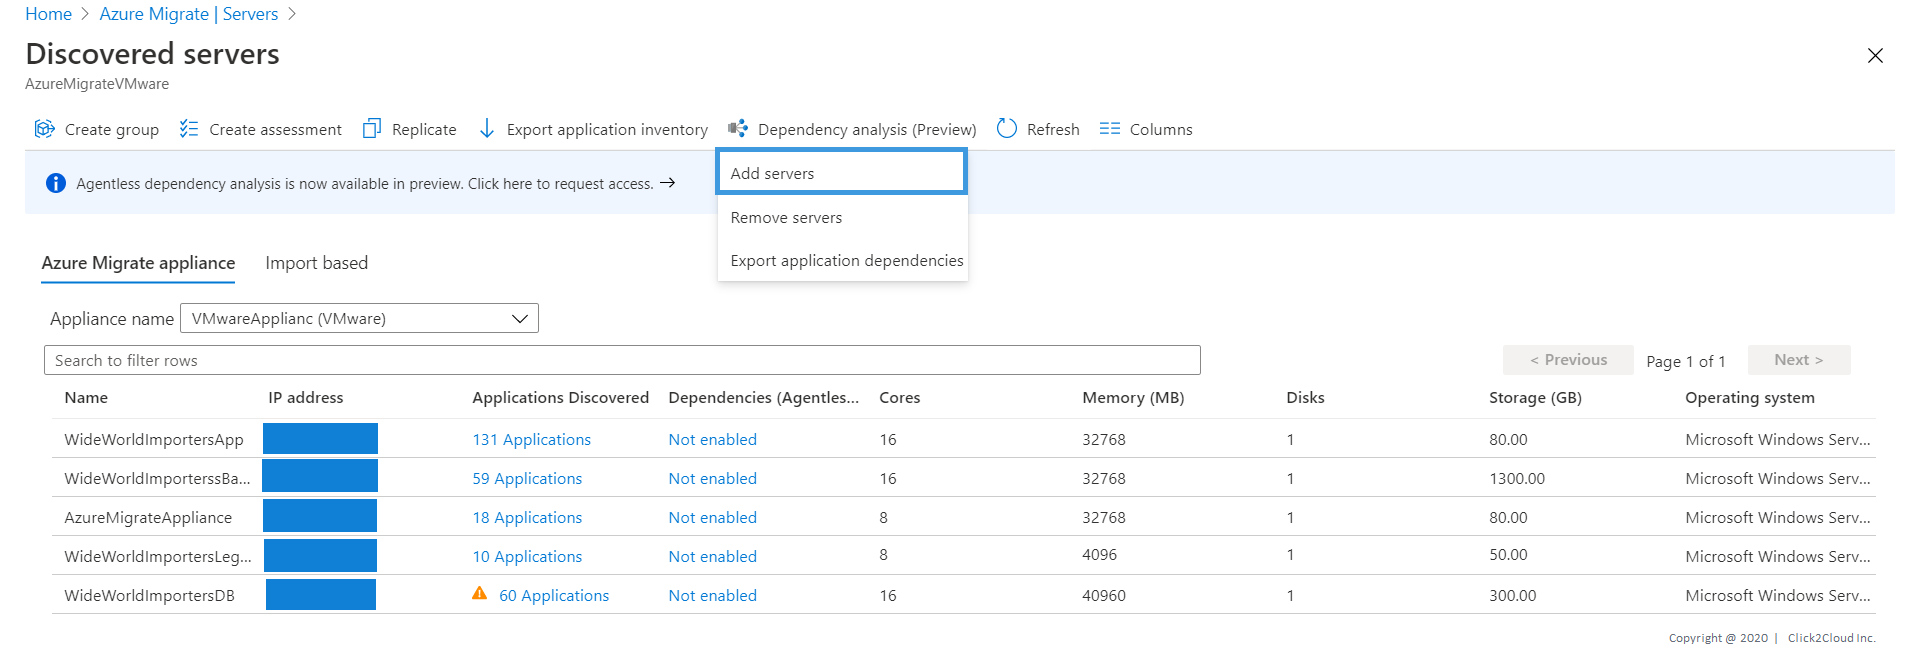
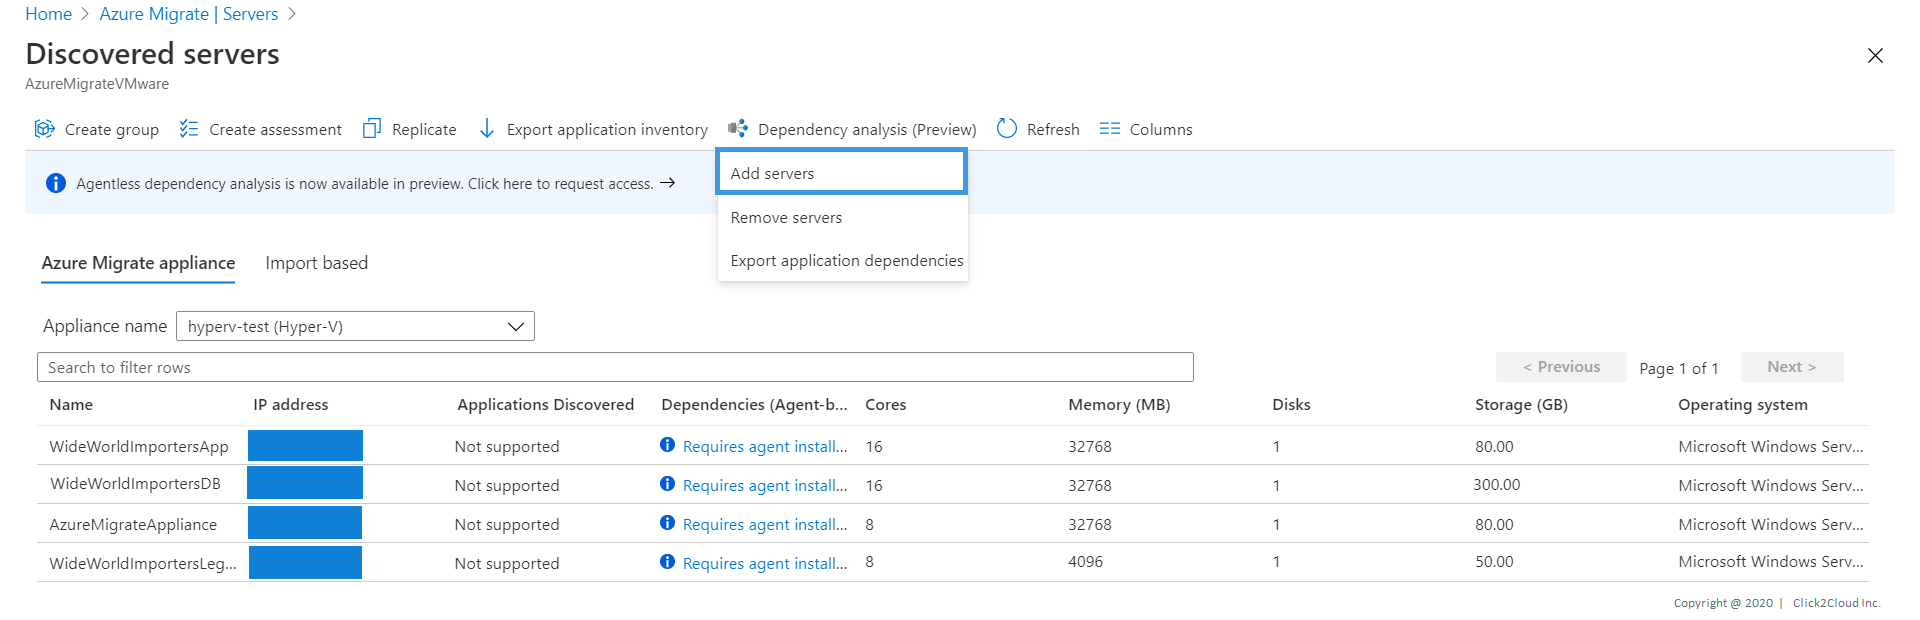
Updated document for Hyper-V

diff --git a/migrate/wwi-ecomm-db-legacy.md b/migrate/wwi-ecomm-db-legacy.md
@@ -7,10 +7,47 @@ The database that will be migrated is hosted on a Windows Server 2008 R2.
 
 Technologies used:
  - Microsoft SQL Server 2008 R2
+ 
+## Download and install the provider
+
+For migrating Hyper-V VMs, Azure Migrate:Server Migration installs software providers (Microsoft Azure Site Recovery provider and Microsoft Azure Recovery Service agent) on Hyper-V Hosts or cluster nodes. Note that the Azure Migrate appliance isn't used for Hyper-V migration.  
+
+1. In the Azure Migrate project > **Servers**, in A**zure Migrate: Server Migration**, click **Discover**.
+
+2. In **Discover machines** > **Are your machines virtualized?**, select **Yes, with Hyper-V**.
+
+3. In **Target region**, select the Azure region to which you want to migrate the machines.
+
+4. Select **Confirm that the target region for migration is region-name**.
+
+5. Click **Create resources**. This creates an Azure Site Recovery vault in the background.
+  - If you've already set up migration with Azure Migrate Server Migration, this option won't appear since resources were set up previously.
+  - You can't change the target region for this project after clicking this button.
+  - All subsequent migrations are to this region.
+  
+<p><kbd>
+  <img src="../images/WWI-eCommerce/server-migration1-hyperv.PNG">
+</kbd></p>
+
+6. In **Prepare Hyper-V host servers**, download the Hyper-V Replication provider, and the registration key file.
+  - The registration key is needed to register the Hyper-V host with Azure Migrate Server Migration.
+  - The key is valid for five days after you generate it.
+  
+<p><kbd>
+  <img src="../images/WWI-eCommerce/server-migration2-hyperv.PNG">
+</kbd></p>
+
+7. Copy the provider setup file and registration key file to each Hyper-V host (or cluster node) running VMs you want to replicate.
+
+8. Run the provider setup file on each host, as described in the next procedure.
+
+9. After installing the provider on hosts, in **Discover machines**, click **Finalize registration**. 
+
+It can take up to 15 minutes after finalizing registration until discovered VMs appear in Azure Migrate Server Migration. As VMs are discovered, the **Discovered servers** count rises.
 
 ## Replicate VMs
 
-After setting up the appliance and completing discovery, you can begin replication of VMware VMs to Azure.
+With discovery completed, you can begin replication of Hyper-V VMs to Azure.
 * You can run up to 300 replications simultaneously.
 * In the portal, you can select up to 10 VMs at once for migration. To migrate more machines, add them to groups in batches of 10.
 
@@ -21,26 +58,25 @@ Enable replication as follows:
   <img src="../images/WWI-eCommerce/server-migration1.PNG">
 </kbd></p>
 
-2. In **Replicate**, > **Source settings** > **Are your machines virtualized?**, select **Yes, with VMware vSphere**.
-3. In **On-premises appliance**, select the name of the Azure Migrate appliance that you set up > **OK**.
+2. In **Replicate**, > **Source settings** > **Are your machines virtualized?**, select **Yes, with Hyper-V**.
 
 <p><kbd>
-  <img src="../images/WWI-eCommerce/server-migration3.PNG">
+  <img src="../images/WWI-eCommerce/server-migration4-hyperv.PNG">
 </kbd></p>
 
-4. In **Virtual machines**, select the machines you want to replicate. To apply VM sizing and disk type from an assessment if you have run one, in **Import migration settings from an Azure Migrate assessment?**, select **Yes**, and select the VM group and assessment name. If you aren't using assessment settings, select **No**.
+3. In **Virtual machines**, select the machines you want to replicate. To apply VM sizing and disk type from an assessment if you have run one, in **Import migration settings from an Azure Migrate assessment?**, select **Yes**, and select the VM group and assessment name. If you aren't using assessment settings, select **No**.
 
-5. In **Virtual machines**, select VMs you want to migrate. Then click **Next: Target settings**.
+4. In **Virtual machines**, select VMs you want to migrate. Then click **Next: Target settings**.
 
 <p><kbd>
   <img src="../images/WWI-eCommerce/server-migration4.PNG">
 </kbd></p>
 
-6. In **Target settings**, select the subscription and target region. Specify the resource group in which the Azure VMs reside after migration.
+5. In **Target settings**, select the subscription and target region. Specify the resource group in which the Azure VMs reside after migration.
 
-7. In **Virtual Network**, select the Azure VNet/subnet which the Azure VMs join after migration.
+6. In **Virtual Network**, select the Azure VNet/subnet which the Azure VMs join after migration.
 
-8. In **Azure Hybrid Benefit**:
+7. In **Azure Hybrid Benefit**:
 - Select **No** if you don't want to apply Azure Hybrid Benefit. Then click **Next**.
 - Select **Yes** if you have Windows Server machines that are covered with active Software Assurance or Windows Server subscriptions, and you want to apply the benefit to the machines you are migrating. Then click **Next**.
 
@@ -48,7 +84,7 @@ Enable replication as follows:
   <img src="../images/WWI-eCommerce/server-migration5.PNG">
 </kbd></p>
 
-9. In **Compute**, review the VM name, size, OS disk type, and availability set. VMs must conform with Azure requirements.
+8. In **Compute**, review the VM name, size, OS disk type, and availability set. VMs must conform with Azure requirements.
 - **VM size**: If you're using assessment recommendations, the VM size dropdown shows the recommended size. Otherwise Azure Migrate picks a size based on the closest match in the Azure subscription. Alternatively, pick a manual size in Azure VM size.
 - **OS disk**: Specify the OS (boot) disk for the VM. The OS disk is the disk that has the operating system bootloader and installer.
 - **Availability set**: If the VM will reside in an Azure availability set after migration, specify the set. The set must be in the target resource group you specify for the migration.
@@ -57,13 +93,13 @@ Enable replication as follows:
   <img src="../images/WWI-eCommerce/server-migration6.PNG">
 </kbd></p>
 
-10. In **Disks**, specify whether the VM disks should be replicated to Azure, and select the disk type (standard SSD/HDD or premium-managed disks) in Azure. Then click **Next**.
+9. In **Disks**, specify whether the VM disks should be replicated to Azure, and select the disk type (standard SSD/HDD or premium-managed disks) in Azure. Then click **Next**.
 
 <p><kbd>
   <img src="../images/WWI-eCommerce/server-migration7.PNG">
 </kbd></p>
 
-11. In **Review and start replication**, review the settings, and click **Replicate** to start the initial replication for the servers.
+10. In **Review and start replication**, review the settings, and click **Replicate** to start the initial replication for the servers.
 
 <p><kbd>
   <img src="../images/WWI-eCommerce/server-migration8.PNG">

diff --git a/assess/wwi-ecomm-db.md b/assess/wwi-ecomm-db.md
@@ -8,12 +8,7 @@ The database that will be migrated is hosted on a Windows server 2016.
 Technologies used:
  - Microsoft SQL Server 2017
 
-## Steps for Application Discovery
-
-* App discovery using Azure Migrate: Server Assessment is agentless. 
-* Nothing is installed on machines and VMs. 
-* Server Assessment uses the Azure Migrate appliance to perform discovery along with machine guest credentials. 
-* The appliance remotely accesses the VMware machines using VMware APIs.
+## Steps to view discovered Virtual Machines
 
 1. Log in to the azure console, Search for **Azure Migrate** and click on **Azure Migrate**.
 
@@ -37,15 +32,6 @@ Here you can see all the discovered servers from **Hyper-V** which Azure applian
 
 <p><kbd>
   <img src="../images/WWI-eCommerce/server-assessment-2.PNG">
-</kbd></p>
-
-4. In **Applications discovered**, click the displayed count.
-* In **Application inventory**, you can review the discovered apps, roles, and features.
-
-* Application Discovery for WWI-eCommerce Database VM.
-
-<p><kbd>
-  <img src="../images/WWI-eCommerce/application-discovery-database.PNG">
 </kbd></p>
 
 ## Steps for Application Dependency and Grouping

diff --git a/assess/wwi-ecomm-db-legacy.md b/assess/wwi-ecomm-db-legacy.md
@@ -8,9 +8,7 @@ The database that will be migrated contains campaign related data and is hosted 
 Technologies used:
  - Microsoft SQL Server 2008 R2
 
-## Steps for Application Discovery
-
-App discovery using Azure Migrate: Server Assessment is agentless. Nothing is installed on machines and VMs. Server Assessment uses the Azure Migrate appliance to perform discovery along with machine guest credentials. The appliance remotely accesses the VMware machines using VMware APIs.
+## Steps to view discovered Virtual Machines
 
 1. Log in to the azure console, Search for **Azure Migrate** and click on **Azure Migrate**.
 
@@ -34,15 +32,6 @@ Here you can see all the discovered servers from **Hyper-V** which Azure applian
 
 <p><kbd>
   <img src="../images/WWI-eCommerce/server-assessment-2.PNG">
-</kbd></p>
-
-4. In **Applications discovered**, click the displayed count.
-* In **Application inventory**, you can review the discovered apps, roles, and features.
-
-* Application Discovery for Wide World Importers legacy Database VM.
-
-<p><kbd>
-  <img src="../images/WWI-eCommerce/application-discovery-legacy-db.PNG">
 </kbd></p>
 
 

diff --git a/assess/wwi-ecomm-app.md b/assess/wwi-ecomm-app.md
@@ -13,12 +13,7 @@ Technologies used:
  - .NET Core v2.2.104
 
 
-## Steps for Application Discovery
-
-App discovery using Azure Migrate: Server Assessment is agentless. 
-* Nothing is installed on machines and VMs. 
-* Server Assessment uses the Azure Migrate appliance to perform discovery along with machine guest credentials. 
-* The appliance remotely accesses the VMware machines using VMware APIs.
+## Steps to view discovered Virtual Machines
 
 1. Log in to the azure console, Search for **Azure Migrate** and click on **Azure Migrate**.
 
@@ -42,15 +37,6 @@ Here you can see all the discovered servers from **Hyper-V** which Azure applian
 
 <p><kbd>
   <img src="../images/WWI-eCommerce/server-assessment-2.PNG">
-</kbd></p>
-
-4. In **Applications discovered**, click the displayed count.
-* In **Application inventory**, you can review the discovered apps, roles, and features.
-
-* Application Discovery for Wide World Importers Application VM.
-
-<p><kbd>
-  <img src="../images/WWI-eCommerce/application-discovery-app.PNG">
 </kbd></p>
 
 ## Steps for Application Dependency and Grouping
